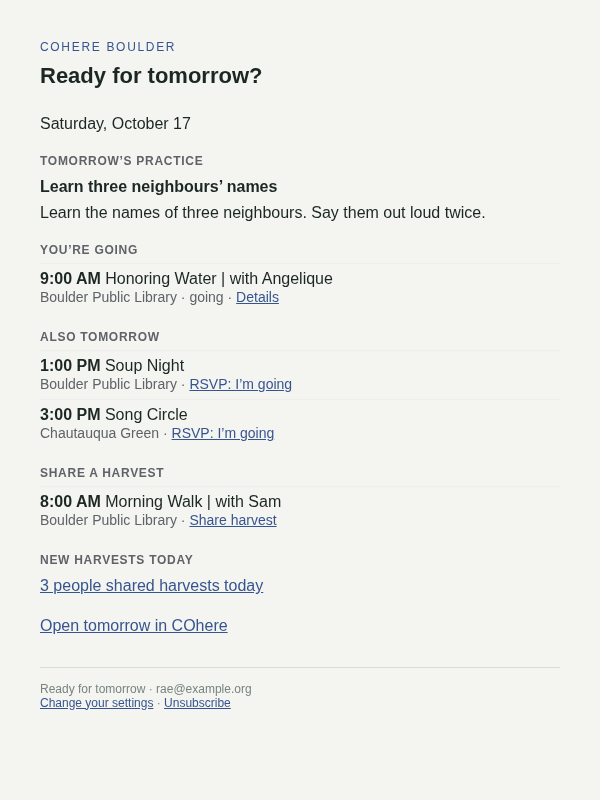
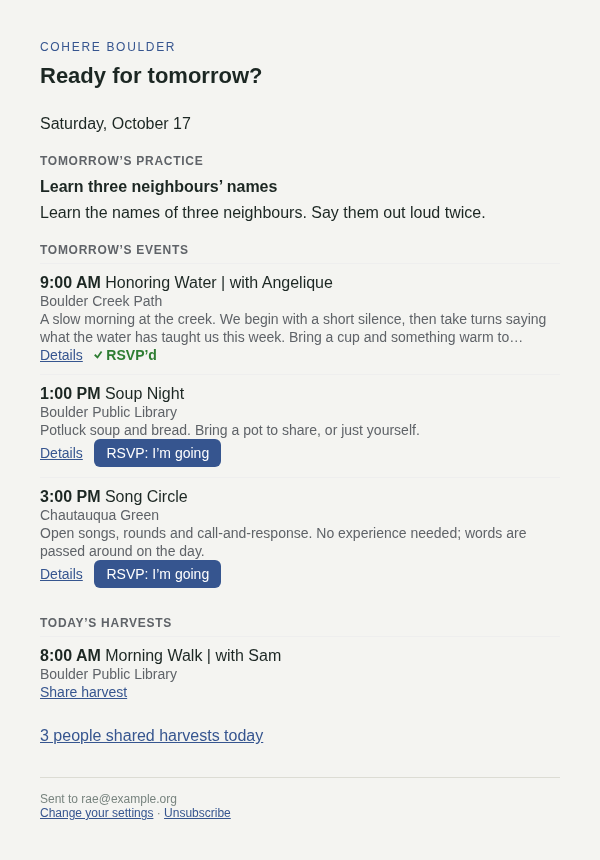
8 PM email: one time-ordered list of tomorrow's events with preview, Details and one-tap RSVP or green RSVP'd; Today's harvests; 'Sent to' footer

Changed region(s): [[0.06, 0.0312, 0.9, 0.8125], [0.06, 0.8438, 0.45, 0.9688], [0.57, 0.5, 0.69, 0.5312]]

diff --git a/worker/src/notify-messages.ts b/worker/src/notify-messages.ts
@@ -15,6 +15,8 @@ export interface EventLine {
   startsAt: string | null;
   endsAt: string | null;
   where: string | null;
+  /** The event's own description, verbatim from the record; the digest shows a short preview. */
+  description?: string | null;
   /** The person RSVP'd (account RSVP, or an email RSVP for this address). */
   going: boolean;
 }
@@ -52,17 +54,40 @@ export function dateLabel(date: string, lang: Lang, long = false): string {
   }).format(new Date(`${date}T12:00:00Z`));
 }
 
+/**
+ * A 1–2 line preview of an event's own words: markup and markdown stripped,
+ * cut on a word boundary near `max` characters. Nothing is written or reworded.
+ */
+export function preview(description: string | null | undefined, max = 160): string {
+  const plain = (description ?? "")
+    .replace(/<[^>]*>/g, " ")
+    .replace(/!\[[^\]]*\]\([^)]*\)/g, " ")
+    .replace(/\[([^\]]*)\]\([^)]*\)/g, "$1")
+    .replace(/https?:\/\/\S+/g, " ")
+    .replace(/&nbsp;/g, " ").replace(/&amp;/g, "&").replace(/&lt;/g, "<").replace(/&gt;/g, ">").replace(/&quot;/g, '"').replace(/&#39;/g, "'")
+    .replace(/^\s{0,3}(#{1,6}|>|[-*+]|\d+\.)\s+/gm, "")
+    .replace(/(\*\*|__|~~|`)/g, "")
+    .replace(/(^|\s)[*_]+|[*_]+(?=\s|$)/g, "$1")
+    .replace(/\s+/g, " ")
+    .trim();
+  const chars = Array.from(plain);
+  if (chars.length <= max) return plain;
+  const cut = chars.slice(0, max).join("");
+  const at = cut.lastIndexOf(" ");
+  return `${(at > max / 2 ? cut.slice(0, at) : cut).replace(/[\s,;:.\-–—]+$/, "")}…`;
+}
+
 const sentences = (s: string) => (s.match(/[^.!?]+[.!?]+/g) ?? [s]).map((x) => x.trim()).filter(Boolean);
 
 const T = {
   en: {
     day: "Day", thenAsk: "Then ask:", settings: "Settings", openToday: "Open Today", rsvpTomorrow: "RSVP for tomorrow", share: "Share harvest",
     going: "going", more: (n: number) => `+ ${n} more event${n === 1 ? "" : "s"} today`, moreTomorrow: (n: number) => `+ ${n} more`,
-    youreGoing: "You’re going", eventsToday: "Today’s events", also: "Also", alsoToday: "Also today", alsoTomorrow: "Also tomorrow", yourEvents: "Your events today",
+    youreGoing: "You’re going", eventsToday: "Today’s events", also: "Also", alsoToday: "Also today", yourEvents: "Your events today",
     practice: "Today’s practice", dayOf: (n: number, d: string) => `Day ${n} of 11 · ${d}`, openTodayLink: "Open Today in COhere",
     details: "Details", imGoing: "I’m going", rsvp: "RSVP: I’m going",
     readyTitle: "Ready for tomorrow?", readyBody: (n: number, d: string, m: number) => `${n} event${n === 1 ? "" : "s"} · ${d} · going to ${m}`,
-    readyMail: (d: string) => d, openTomorrow: "Open tomorrow in COhere",
+    readyMail: (d: string) => d, tomorrowEvents: "Tomorrow’s events", todaysHarvests: "Today’s harvests", rsvpd: "✓ RSVP’d", sentTo: (to: string) => `Sent to ${to}`,
     harvestTitle: (n: string) => `How was ${n}?`, harvestBody: "Share your harvest.", harvestLine: "",
     harvestMail: (e: string, w: string | null) => `<b>${e}</b>${w ? ` · ${w}` : ""}`,
     harvestAsk: "How was it?", harvestLink: "Share your harvest",
@@ -74,7 +99,6 @@ const T = {
     subjectMorning: (n: number, t: string) => `Day ${n}: ${t}`,
     subjectHarvest: (n: string) => `How was ${n}?`,
     subjectDigest: (d: string) => `Tomorrow at COhere: ${d}`,
-    shareHarvest: "Share a harvest", newHarvests: "New harvests today",
     harvestsToday: (n: number) => (n === 1 ? "1 person shared a harvest today" : `${n} people shared harvests today`),
     testTitle: "Push is working", testBody: "Test from COhere.",
     verifySubject: "Confirm your email", verifyHeading: "Is this your email?", verifyBody: "Confirm this address.",
@@ -85,11 +109,11 @@ const T = {
   es: {
     day: "Día", thenAsk: "Luego pregúntate:", settings: "Ajustes", openToday: "Abrir Hoy", rsvpTomorrow: "RSVP para mañana", share: "Compartir cosecha",
     going: "voy", more: (n: number) => `+ ${n} evento${n === 1 ? "" : "s"} más hoy`, moreTomorrow: (n: number) => `+ ${n} más`,
-    youreGoing: "Vas a", eventsToday: "Los eventos de hoy", also: "También", alsoToday: "También hoy", alsoTomorrow: "También mañana", yourEvents: "Tus eventos de hoy",
+    youreGoing: "Vas a", eventsToday: "Los eventos de hoy", also: "También", alsoToday: "También hoy", yourEvents: "Tus eventos de hoy",
     practice: "La práctica de hoy", dayOf: (n: number, d: string) => `Día ${n} de 11 · ${d}`, openTodayLink: "Abrir Hoy en COhere",
     details: "Detalles", imGoing: "Voy", rsvp: "RSVP: voy",
     readyTitle: "¿Lista para mañana?", readyBody: (n: number, d: string, m: number) => `${n} evento${n === 1 ? "" : "s"} · ${d} · voy a ${m}`,
-    readyMail: (d: string) => d, openTomorrow: "Abrir mañana en COhere",
+    readyMail: (d: string) => d, tomorrowEvents: "Los eventos de mañana", todaysHarvests: "Las cosechas de hoy", rsvpd: "✓ RSVP hecho", sentTo: (to: string) => `Enviado a ${to}`,
     harvestTitle: (n: string) => `¿Cómo estuvo ${n}?`, harvestBody: "Comparte tu cosecha.", harvestLine: "",
     harvestMail: (e: string, w: string | null) => `<b>${e}</b>${w ? ` · ${w}` : ""}`,
     harvestAsk: "¿Cómo estuvo?", harvestLink: "Comparte tu cosecha",
@@ -101,7 +125,6 @@ const T = {
     subjectMorning: (n: number, t: string) => `Día ${n}: ${t}`,
     subjectHarvest: (n: string) => `¿Cómo estuvo ${n}?`,
     subjectDigest: (d: string) => `Mañana en COhere: ${d}`,
-    shareHarvest: "Comparte una cosecha", newHarvests: "Cosechas nuevas de hoy",
     harvestsToday: (n: number) => (n === 1 ? "1 persona compartió una cosecha hoy" : `${n} personas compartieron cosechas hoy`),
     testTitle: "El push funciona", testBody: "Prueba de COhere.",
     verifySubject: "Confirma tu correo", verifyHeading: "¿Es este tu correo?", verifyBody: "Confirma esta dirección.",
@@ -134,16 +157,16 @@ const A = 'style="color:#36558F"';
 const H = 'style="font-size:12px;letter-spacing:.06em;text-transform:uppercase;color:#5f6368;margin:18px 0 6px"';
 const eventUrl = (base: string, e: EventLine) => `${base}/events/${encodeURIComponent(e.did)}/${encodeURIComponent(e.rkey)}`;
 
-function frame(type: NotifyType, ctx: MailContext, heading: string, bodyHtml: string, bodyText: string, subject: string): MailMessage {
+function frame(type: NotifyType, ctx: MailContext, heading: string, bodyHtml: string, bodyText: string, subject: string, because?: string): MailMessage {
   const c = T[ctx.lang];
-  const name = c.names[type];
+  const label = because ?? c.because(c.names[type], ctx.to);
   const top = ctx.fellBack ? `<p ${P}><i>${esc(c.fellBack)}</i> <a href="${esc(ctx.pushSettingsUrl)}" ${A}>${esc(c.fellBackLink)}</a></p>` : "";
   const topText = ctx.fellBack ? `${c.fellBack} ${c.fellBackLink}: ${ctx.pushSettingsUrl}\n\n` : "";
-  const footer = `${esc(c.because(name, ctx.to))}<br><a href="${esc(ctx.settingsUrl)}" ${A}>${esc(c.change)}</a> · <a href="${esc(ctx.unsubUrl)}" ${A}>${esc(c.unsub())}</a>`;
+  const footer = `${esc(label)}<br><a href="${esc(ctx.settingsUrl)}" ${A}>${esc(c.change)}</a> · <a href="${esc(ctx.unsubUrl)}" ${A}>${esc(c.unsub())}</a>`;
   return {
     subject,
     html: mailShell(esc(heading), top + bodyHtml, footer),
-    text: `${topText}${bodyText}\n\n${c.because(name, ctx.to)}\n${c.change}: ${ctx.settingsUrl}\n${c.unsub()}: ${ctx.unsubUrl}`,
+    text: `${topText}${bodyText}\n\n${label}\n${c.change}: ${ctx.settingsUrl}\n${c.unsub()}: ${ctx.unsubUrl}`,
     headers: { "List-Unsubscribe": `<${ctx.unsubUrl}>`, "List-Unsubscribe-Post": "List-Unsubscribe=One-Click" },
   };
 }
@@ -254,31 +277,52 @@ export function eveningPush(input: EveningInput, deviceId?: string): PushPayload
 
 export function eveningEmail(input: EveningInput, ctx: MailContext, rsvpLink: (e: EventLine) => string): MailMessage {
   const c = T[ctx.lang];
-  const events = ordered(input.events);
-  const mine = events.filter((e) => e.going), rest = events.filter((e) => !e.going);
+  const events = [...input.events].sort((a, b) => (Date.parse(a.startsAt ?? "") || 0) - (Date.parse(b.startsAt ?? "") || 0));
   const share = input.toShare ?? [];
   const count = input.harvestsToday ?? 0;
   const practice = input.daily?.title ? practiceLines({ date: input.date, daily: input.daily, events: [], lang: ctx.lang }) : null;
-  const ul = 'style="margin:0 0 12px;padding:0;list-style:none"';
   const todayUrl = `${ctx.base}/today`;
+  const sub = 'style="color:#5f6368;font-size:14px"';
+  const btn = 'style="display:inline-block;background:#36558F;color:#ffffff;text-decoration:none;padding:6px 12px;border-radius:6px;font-size:14px"';
+  const meta = (e: EventLine) => `<b>${esc(timeOf(e.startsAt, ctx.lang))}</b> ${esc(e.name)}${e.where ? `<br><span ${sub}>${esc(e.where)}</span>` : ""}`;
+  const eventHtml = (e: EventLine) => {
+    const blurb = preview(e.description);
+    return `<li style="padding:10px 0;border-top:1px solid #eee">${meta(e)}` +
+      (blurb ? `<br><span ${sub}>${esc(blurb)}</span>` : "") +
+      `<br><span style="font-size:14px"><a href="${esc(eventUrl(ctx.base, e))}" ${A}>${esc(c.details)}</a> &nbsp; ` +
+      (e.going ? `<b style="color:#2e7d32">${esc(c.rsvpd)}</b>` : `<a href="${esc(rsvpLink(e))}" ${btn}>${esc(c.rsvp)}</a>`) +
+      `</span></li>`;
+  };
+  const shareHtml = (e: EventLine) =>
+    `<li style="padding:10px 0;border-top:1px solid #eee">${meta(e)}<br><span style="font-size:14px"><a href="${esc(eventUrl(ctx.base, e))}" ${A}>${esc(c.share)}</a></span></li>`;
+  const ul = 'style="margin:0 0 12px;padding:0;list-style:none"';
   const html =
     `<p ${P}>${esc(c.readyMail(dateLabel(input.date, ctx.lang, true)))}</p>` +
     (practice ? `<h4 ${H}>${esc(c.tomorrowPractice)}</h4><p ${P}><b>${esc(practice.title)}</b><br>${esc(practice.body)}</p>` : "") +
-    (mine.length ? `<h4 ${H}>${esc(c.youreGoing)}</h4><ul ${ul}>${mine.map((e) => eventLi(e, ctx, { href: eventUrl(ctx.base, e), label: c.details })).join("")}</ul>` : "") +
-    (rest.length ? `<h4 ${H}>${esc(c.alsoTomorrow)}</h4><ul ${ul}>${rest.map((e) => eventLi(e, ctx, { href: rsvpLink(e), label: c.rsvp })).join("")}</ul>` : "") +
-    (share.length ? `<h4 ${H}>${esc(c.shareHarvest)}</h4><ul ${ul}>${share.map((e) => eventLi({ ...e, going: false }, ctx, { href: eventUrl(ctx.base, e), label: c.share })).join("")}</ul>` : "") +
-    (count > 0 ? `<h4 ${H}>${esc(c.newHarvests)}</h4><p ${P}><a href="${esc(todayUrl)}" ${A}>${esc(c.harvestsToday(count))}</a></p>` : "") +
-    (events.length ? `<p ${P}><a href="${esc(`${ctx.base}/tomorrow`)}" ${A}>${esc(c.openTomorrow)}</a></p>` : "");
+    (events.length ? `<h4 ${H}>${esc(c.tomorrowEvents)}</h4><ul ${ul}>${events.map(eventHtml).join("")}</ul>` : "") +
+    (share.length || count > 0
+      ? `<h4 ${H}>${esc(c.todaysHarvests)}</h4>` +
+        (share.length ? `<ul ${ul}>${share.map(shareHtml).join("")}</ul>` : "") +
+        (count > 0 ? `<p ${P}><a href="${esc(todayUrl)}" ${A}>${esc(c.harvestsToday(count))}</a></p>` : "")
+      : "");
+  const head = (e: EventLine) => `${timeOf(e.startsAt, ctx.lang)} ${e.name}${e.where ? ` · ${e.where}` : ""}`;
   const text = [
     c.readyMail(dateLabel(input.date, ctx.lang, true)), "",
     ...(practice ? [c.tomorrowPractice, practice.title, practice.body, ""] : []),
-    ...(mine.length ? [c.youreGoing, ...mine.map((e) => eventText(e, ctx.lang, eventUrl(ctx.base, e))), ""] : []),
-    ...(rest.length ? [c.alsoTomorrow, ...rest.map((e) => `${eventText(e, ctx.lang, rsvpLink(e)).replace(/\n/, `\n${c.rsvp}: `)}`), ""] : []),
-    ...(share.length ? [c.shareHarvest, ...share.map((e) => eventText({ ...e, going: false }, ctx.lang, eventUrl(ctx.base, e)).replace(/\n/, `\n${c.share}: `)), ""] : []),
-    ...(count > 0 ? [c.newHarvests, `${c.harvestsToday(count)}: ${todayUrl}`, ""] : []),
-    ...(events.length ? [`${c.openTomorrow}: ${ctx.base}/tomorrow`] : []),
+    ...(events.length
+      ? [c.tomorrowEvents, "", ...events.flatMap((e) => [
+          head(e),
+          ...(preview(e.description) ? [preview(e.description)] : []),
+          `${c.details}: ${eventUrl(ctx.base, e)}`,
+          e.going ? c.rsvpd : `${c.rsvp}: ${rsvpLink(e)}`,
+          "",
+        ])]
+      : []),
+    ...(share.length || count > 0
+      ? [c.todaysHarvests, "", ...share.flatMap((e) => [head(e), `${c.share}: ${eventUrl(ctx.base, e)}`, ""]), ...(count > 0 ? [`${c.harvestsToday(count)}: ${todayUrl}`, ""] : [])]
+      : []),
   ].join("\n").trimEnd();
-  return frame("evening", ctx, c.readyTitle, html, text, c.subjectDigest(dateLabel(input.date, ctx.lang, true)));
+  return frame("evening", ctx, c.readyTitle, html, text, c.subjectDigest(dateLabel(input.date, ctx.lang, true)), c.sentTo(ctx.to));
 }
 
 // ----------------------------------------------------------------- harvest

diff --git a/worker/src/notify-send.test.ts b/worker/src/notify-send.test.ts
@@ -459,8 +459,8 @@ describe("the 8 PM note", () => {
     expect(mails).toHaveLength(1);
     const { message } = mails[0];
     expect(message.subject).toBe("Tomorrow at COhere: Saturday, October 17");
-    const going = /You’re going\n([^\n]+)\n(https:\/\/\S+)/.exec(message.text!);
-    expect(going![1]).toMatch(/Soup Night.*· going/);
+    const soup = message.text!.slice(message.text!.indexOf("Soup Night"));
+    expect(soup.split("\n")[2]).toBe("✓ RSVP’d");
     const rsvpLinks = [...message.text!.matchAll(/RSVP: I’m going: (https:\/\/cohereboulder\.org\/n\/([A-Za-z0-9_.-]+))/g)];
     expect(rsvpLinks).toHaveLength(3);
     const payload = await verifyLink(SECRET, rsvpLinks[0][2], new Date());
@@ -708,7 +708,7 @@ describe("the 8 PM note as the one daily email", () => {
     await rsvp("sam@example.org", "late");
   });
 
-  it("carries every section in order: practice, going, also, share a harvest, new harvests, footer", async () => {
+  it("carries every section in order: practice, one list of tomorrow's events, today's harvests, footer", async () => {
     await rsvp("sam@example.org", "a");
     await harvest("h1", "did:plc:x", "tea");
     await harvest("h2", "did:plc:y", "tea");
@@ -717,27 +717,48 @@ describe("the 8 PM note as the one daily email", () => {
     const { message } = mails[0];
     expect(message.subject).toBe("Tomorrow at COhere: Saturday, October 17");
     const t = message.text!;
-    const order = ["Tomorrow’s practice", "You’re going", "Also tomorrow", "Share a harvest", "New harvests today", "Change your settings"].map((h) => t.indexOf(h));
+    const order = ["Tomorrow’s practice", "Tomorrow’s events", "Today’s harvests", "Change your settings"].map((h) => t.indexOf(h));
     expect(order.every((i) => i >= 0)).toBe(true);
     expect([...order].sort((x, y) => x - y)).toEqual(order);
     expect(t).toContain("Learn the names of three neighbours. Say them out loud twice.");
-    expect(t).toMatch(/Honoring Water.*· going/);
+    // one list, time order, with the going one marked and the others offering the one-tap RSVP
+    const events = t.slice(t.indexOf("Tomorrow’s events"), t.indexOf("Today’s harvests"));
+    expect(events.indexOf("Honoring Water")).toBeLessThan(events.indexOf("Soup Night"));
+    expect(events.indexOf("Soup Night")).toBeLessThan(events.indexOf("Song Circle"));
+    expect(events.match(/✓ RSVP’d/g)).toHaveLength(1);
+    expect(events.match(/RSVP: I’m going: https:/g)).toHaveLength(2);
+    expect(events.match(/Details: https:/g)).toHaveLength(3);
+    expect(t).not.toMatch(/You’re going|Also tomorrow|Open tomorrow in COhere|Ready for tomorrow/);
+    expect(t).toContain("Sent to sam@example.org");
     // water (ended 10 AM, went) is to share; late (ends 9 PM) and tea (did not go) are not
-    const share = t.slice(t.indexOf("Share a harvest"), t.indexOf("New harvests today"));
+    const share = t.slice(t.indexOf("Today’s harvests"), t.indexOf("Sent to"));
     expect(share).toContain("Honoring Water | with Angelique");
     expect(share).toContain("Share harvest: https://cohereboulder.org/events/did%3Aplc%3Amockscene/water");
     expect(share).not.toContain("Night Walk");
     expect(share).not.toContain("Tea Circle");
     expect(t).toContain("2 people shared harvests today: https://cohereboulder.org/today");
     expect(message.html).toContain("Share harvest");
+    expect(message.html).toContain("color:#2e7d32");
+  });
+  it("previews an event's own description, cleaned and cut on a word, never reworded", async () => {
+    const long = "**Join us** for a [water ceremony](https://x.test/a) at the creek. <p>Bring a cup &amp; a friend.</p> " + "We will walk slowly and listen to the water together. ".repeat(6);
+    events = [{ ...water }, { ...tomorrow[0], description: long }, tomorrow[1]];
+    await runNotifyCron(env, EVENING, deps);
+    const t = mails[0].message.text!;
+    const line = t.split("\n").find((l) => l.startsWith("Join us for a water ceremony at the creek. Bring a cup & a friend."))!;
+    expect(line).toBeTruthy();
+    expect(line.length).toBeLessThanOrEqual(162);
+    expect(line.endsWith("…")).toBe(true);
+    expect(line).not.toMatch(/[*<>[\]]|https/);
+    expect(mails[0].message.html).toContain("Join us for a water ceremony");
   });
   it("leaves out a section that is empty", async () => {
     events = tomorrow;
     await runNotifyCron(env, EVENING, deps);
     const t = mails[0].message.text!;
     expect(t).toContain("Tomorrow’s practice");
-    expect(t).toContain("Also tomorrow");
-    for (const gone of ["You’re going", "Share a harvest", "New harvests today"]) expect(t).not.toContain(gone);
+    expect(t).toContain("Tomorrow’s events");
+    expect(t).not.toContain("Today’s harvests");
     mails.length = 0;
     await db().prepare("DELETE FROM companion_daily").run();
     await db().prepare("DELETE FROM notify_ledger").run();
@@ -754,7 +775,7 @@ describe("the 8 PM note as the one daily email", () => {
     await harvest("h2", ME, "water");
     await runNotifyCron(env, EVENING, deps);
     const mine = mails.find((m) => m.to === "me@example.org")!.message.text!;
-    expect(mine).not.toContain("Share a harvest");
+    expect(mine).not.toContain("Share harvest");
     expect(mine).toContain("2 people shared harvests today");
   });
   it("never puts a harvest's words, or its author, in the email", async () => {
@@ -770,7 +791,7 @@ describe("the 8 PM note as the one daily email", () => {
     await harvest("h1", "did:plc:x", "tea");
     await db().prepare("INSERT INTO board_moderation(uri,state,created_at,updated_at) VALUES ('cohere:harvest/h1','hidden','2026-10-16T23:00:00Z','2026-10-16T23:00:00Z')").run();
     await runNotifyCron(env, EVENING, deps);
-    expect(mails[0].message.text).not.toContain("New harvests today");
+    expect(mails[0].message.text).not.toMatch(/shared a? ?harvest/);
   });
   it("sends on a day with a practice tomorrow and no events", async () => {
     events = [];
@@ -778,15 +799,14 @@ describe("the 8 PM note as the one daily email", () => {
     expect(mails).toHaveLength(1);
     const t = mails[0].message.text!;
     expect(t).toContain("Tomorrow’s practice");
-    expect(t).not.toContain("Open tomorrow in COhere");
-    expect(t).not.toContain("Also tomorrow");
+    expect(t).not.toContain("Tomorrow’s events");
   });
   it("sends on a day with only a harvest to share, and nothing when there is truly nothing", async () => {
     events = [water];
     await db().prepare("DELETE FROM companion_daily").run();
     await runNotifyCron(env, EVENING, deps);
     expect(mails).toHaveLength(1);
-    expect(mails[0].message.text).toContain("Share a harvest");
+    expect(mails[0].message.text).toContain("Today’s harvests");
     mails.length = 0;
     await db().prepare("DELETE FROM notify_ledger").run();
     await db().prepare("DELETE FROM notify_runs").run();
@@ -809,7 +829,7 @@ describe("the 8 PM note as the one daily email", () => {
     // ... and the digest has it, once
     await runNotifyCron(env, EVENING, deps);
     await runNotifyCron(env, new Date(EVENING.getTime() + 60_000), deps);
-    expect(mails.filter((m) => m.message.text!.includes("Share a harvest"))).toHaveLength(1);
+    expect(mails.filter((m) => m.message.text!.includes("Today’s harvests"))).toHaveLength(1);
     // ended 9 PM → the digest cannot carry it → the separate invitation goes
     await runNotifyCron(env, new Date("2026-10-17T04:05:00Z"), deps);
     const harvestMails = mails.filter((m) => m.message.subject.startsWith("How was"));

diff --git a/shots-email-default/digest-email.html b/shots-email-default/digest-email.html
@@ -3,8 +3,8 @@
   <div style="max-width:520px;margin:0 auto;padding:40px 24px">
     <p style="font-size:12px;letter-spacing:.14em;text-transform:uppercase;color:#36558F;margin:0 0 8px">COhere Boulder</p>
     <h1 style="font-size:22px;line-height:1.3;margin:0 0 20px">Ready for tomorrow?</h1>
-    <p style="margin:0 0 14px;line-height:1.6">Saturday, October 17</p><h4 style="font-size:12px;letter-spacing:.06em;text-transform:uppercase;color:#5f6368;margin:18px 0 6px">Tomorrow’s practice</h4><p style="margin:0 0 14px;line-height:1.6"><b>Learn three neighbours’ names</b><br>Learn the names of three neighbours. Say them out loud twice.</p><h4 style="font-size:12px;letter-spacing:.06em;text-transform:uppercase;color:#5f6368;margin:18px 0 6px">You’re going</h4><ul style="margin:0 0 12px;padding:0;list-style:none"><li style="padding:6px 0;border-top:1px solid #eee"><b>9:00 AM</b> Honoring Water | with Angelique<br><span style="color:#5f6368;font-size:14px">Boulder Public Library · going · <a href="https://cohereboulder.org/events/did%3Aplc%3Ascene/a" style="color:#36558F">Details</a></span></li></ul><h4 style="font-size:12px;letter-spacing:.06em;text-transform:uppercase;color:#5f6368;margin:18px 0 6px">Also tomorrow</h4><ul style="margin:0 0 12px;padding:0;list-style:none"><li style="padding:6px 0;border-top:1px solid #eee"><b>1:00 PM</b> Soup Night<br><span style="color:#5f6368;font-size:14px">Boulder Public Library · <a href="https://cohereboulder.org/n/rsvp-b" style="color:#36558F">RSVP: I’m going</a></span></li><li style="padding:6px 0;border-top:1px solid #eee"><b>3:00 PM</b> Song Circle<br><span style="color:#5f6368;font-size:14px">Chautauqua Green · <a href="https://cohereboulder.org/n/rsvp-c" style="color:#36558F">RSVP: I’m going</a></span></li></ul><h4 style="font-size:12px;letter-spacing:.06em;text-transform:uppercase;color:#5f6368;margin:18px 0 6px">Share a harvest</h4><ul style="margin:0 0 12px;padding:0;list-style:none"><li style="padding:6px 0;border-top:1px solid #eee"><b>8:00 AM</b> Morning Walk | with Sam<br><span style="color:#5f6368;font-size:14px">Boulder Public Library · <a href="https://cohereboulder.org/events/did%3Aplc%3Ascene/w" style="color:#36558F">Share harvest</a></span></li></ul><h4 style="font-size:12px;letter-spacing:.06em;text-transform:uppercase;color:#5f6368;margin:18px 0 6px">New harvests today</h4><p style="margin:0 0 14px;line-height:1.6"><a href="https://cohereboulder.org/today" style="color:#36558F">3 people shared harvests today</a></p><p style="margin:0 0 14px;line-height:1.6"><a href="https://cohereboulder.org/tomorrow" style="color:#36558F">Open tomorrow in COhere</a></p>
+    <p style="margin:0 0 14px;line-height:1.6">Saturday, October 17</p><h4 style="font-size:12px;letter-spacing:.06em;text-transform:uppercase;color:#5f6368;margin:18px 0 6px">Tomorrow’s practice</h4><p style="margin:0 0 14px;line-height:1.6"><b>Learn three neighbours’ names</b><br>Learn the names of three neighbours. Say them out loud twice.</p><h4 style="font-size:12px;letter-spacing:.06em;text-transform:uppercase;color:#5f6368;margin:18px 0 6px">Tomorrow’s events</h4><ul style="margin:0 0 12px;padding:0;list-style:none"><li style="padding:10px 0;border-top:1px solid #eee"><b>9:00 AM</b> Honoring Water | with Angelique<br><span style="color:#5f6368;font-size:14px">Boulder Creek Path</span><br><span style="color:#5f6368;font-size:14px">A slow morning at the creek. We begin with a short silence, then take turns saying what the water has taught us this week. Bring a cup and something warm to…</span><br><span style="font-size:14px"><a href="https://cohereboulder.org/events/did%3Aplc%3Ascene/a" style="color:#36558F">Details</a> &nbsp; <b style="color:#2e7d32">✓ RSVP’d</b></span></li><li style="padding:10px 0;border-top:1px solid #eee"><b>1:00 PM</b> Soup Night<br><span style="color:#5f6368;font-size:14px">Boulder Public Library</span><br><span style="color:#5f6368;font-size:14px">Potluck soup and bread. Bring a pot to share, or just yourself.</span><br><span style="font-size:14px"><a href="https://cohereboulder.org/events/did%3Aplc%3Ascene/b" style="color:#36558F">Details</a> &nbsp; <a href="https://cohereboulder.org/n/rsvp-b" style="display:inline-block;background:#36558F;color:#ffffff;text-decoration:none;padding:6px 12px;border-radius:6px;font-size:14px">RSVP: I’m going</a></span></li><li style="padding:10px 0;border-top:1px solid #eee"><b>3:00 PM</b> Song Circle<br><span style="color:#5f6368;font-size:14px">Chautauqua Green</span><br><span style="color:#5f6368;font-size:14px">Open songs, rounds and call-and-response. No experience needed; words are passed around on the day.</span><br><span style="font-size:14px"><a href="https://cohereboulder.org/events/did%3Aplc%3Ascene/c" style="color:#36558F">Details</a> &nbsp; <a href="https://cohereboulder.org/n/rsvp-c" style="display:inline-block;background:#36558F;color:#ffffff;text-decoration:none;padding:6px 12px;border-radius:6px;font-size:14px">RSVP: I’m going</a></span></li></ul><h4 style="font-size:12px;letter-spacing:.06em;text-transform:uppercase;color:#5f6368;margin:18px 0 6px">Today’s harvests</h4><ul style="margin:0 0 12px;padding:0;list-style:none"><li style="padding:10px 0;border-top:1px solid #eee"><b>8:00 AM</b> Morning Walk | with Sam<br><span style="color:#5f6368;font-size:14px">Boulder Public Library</span><br><span style="font-size:14px"><a href="https://cohereboulder.org/events/did%3Aplc%3Ascene/w" style="color:#36558F">Share harvest</a></span></li></ul><p style="margin:0 0 14px;line-height:1.6"><a href="https://cohereboulder.org/today" style="color:#36558F">3 people shared harvests today</a></p>
     <hr style="border:0;border-top:1px solid #dcdcd4;margin:28px 0 14px">
-    <p style="font-size:12px;color:#78847f;margin:0">Ready for tomorrow · rae@example.org<br><a href="https://cohereboulder.org/more/notifications" style="color:#36558F">Change your settings</a> · <a href="https://cohereboulder.org/n/token" style="color:#36558F">Unsubscribe</a></p>
+    <p style="font-size:12px;color:#78847f;margin:0">Sent to rae@example.org<br><a href="https://cohereboulder.org/more/notifications" style="color:#36558F">Change your settings</a> · <a href="https://cohereboulder.org/n/token" style="color:#36558F">Unsubscribe</a></p>
   </div>
 </body></html>

diff --git a/worker/src/render-digest-email.test.ts b/worker/src/render-digest-email.test.ts
@@ -8,8 +8,8 @@ vi.mock("cloudflare:email", () => ({ EmailMessage: class {} }));
 import { eveningEmail, type EventLine } from "./notify-messages";
 
 const out = process.env.RENDER_DIGEST;
-const line = (rkey: string, name: string, h: number, going = false, where: string | null = "Boulder Public Library"): EventLine => ({
-  did: "did:plc:scene", rkey, name, where, going,
+const line = (rkey: string, name: string, h: number, going = false, where: string | null = "Boulder Public Library", description: string | null = null): EventLine => ({
+  did: "did:plc:scene", rkey, name, where, going, description,
   startsAt: `2026-10-17T${String(h + 6).padStart(2, "0")}:00:00Z`, endsAt: `2026-10-17T${String(h + 7).padStart(2, "0")}:00:00Z`,
 });
 
@@ -20,7 +20,7 @@ describe.skipIf(!out)("digest email render", () => {
       {
         date: "2026-10-17", lang: "en",
         daily: { title: "Learn three neighbours’ names", body: "Learn the names of three neighbours. Say them out loud twice.", title_es: null, body_es: null, question: null, question_es: null },
-        events: [line("a", "Honoring Water | with Angelique", 9, true), line("b", "Soup Night", 13), line("c", "Song Circle", 15, false, "Chautauqua Green")],
+        events: [line("a", "Honoring Water | with Angelique", 9, true, "Boulder Creek Path", "A slow morning at the creek. We begin with a short silence, then take turns saying what the water has taught us this week. Bring a cup and something warm to wear."), line("b", "Soup Night", 13, false, "Boulder Public Library", "**Potluck soup** and bread. Bring a pot to share, or just yourself."), line("c", "Song Circle", 15, false, "Chautauqua Green", "<p>Open songs, rounds and call-and-response. No experience needed; words are passed around on the day.</p>")],
         toShare: [line("w", "Morning Walk | with Sam", 8)],
         harvestsToday: 3,
       },

diff --git a/src/lib/translations.eco.ts b/src/lib/translations.eco.ts
@@ -21,7 +21,7 @@ export const ecoCopy: Record<string, Pair> = {
   "members.gate.notMemberTitle": ["Not a member yet", "Aún no eres miembro"],
   "members.gate.notMemberBody": CUT,
   "members.gate.registeredTitle": ["Registered. Membership is being set up.", "Registro hecho. Tu membresía está en proceso."],
-  "members.gate.registeredBody": ["You don’t need to register again. Write to the organizers if this doesn’t open within a day.", "No necesitas volver a registrarte. Escribe a las organizadoras si no abre en un día."],
+  "members.gate.registeredBody": ["Nothing more to do. Write the organizers if this stays closed.", "No hay más que hacer. Escribe a las organizadoras si sigue cerrado."],
   "members.gate.checkAgain": ["Check again", "Revisar de nuevo"],
   "members.gate.point1": CUT,
   "members.gate.point2": CUT,

diff --git a/worker/src/notify-send.ts b/worker/src/notify-send.ts
@@ -369,7 +369,7 @@ async function buildContent(ctx: Ctx, type: NotifyType, ref: string, loadEvents:
     return going;
   };
   const lines = (events: CommunityEvent[], going: Set<string>): EventLine[] =>
-    events.map((e) => ({ did: e.did, rkey: e.rkey, name: e.name, startsAt: e.startsAt, endsAt: e.endsAt, where: whereOf(e), going: going.has(keyOf(e)) }));
+    events.map((e) => ({ did: e.did, rkey: e.rkey, name: e.name, startsAt: e.startsAt, endsAt: e.endsAt, where: whereOf(e), description: e.description, going: going.has(keyOf(e)) }));
   const people = async (withRegistered = false): Promise<Recipient[]> =>
     (await peopleFor(env, await registeredEmails(db), withRegistered)).map((p) => ({ key: p.key, person: p }));
 
